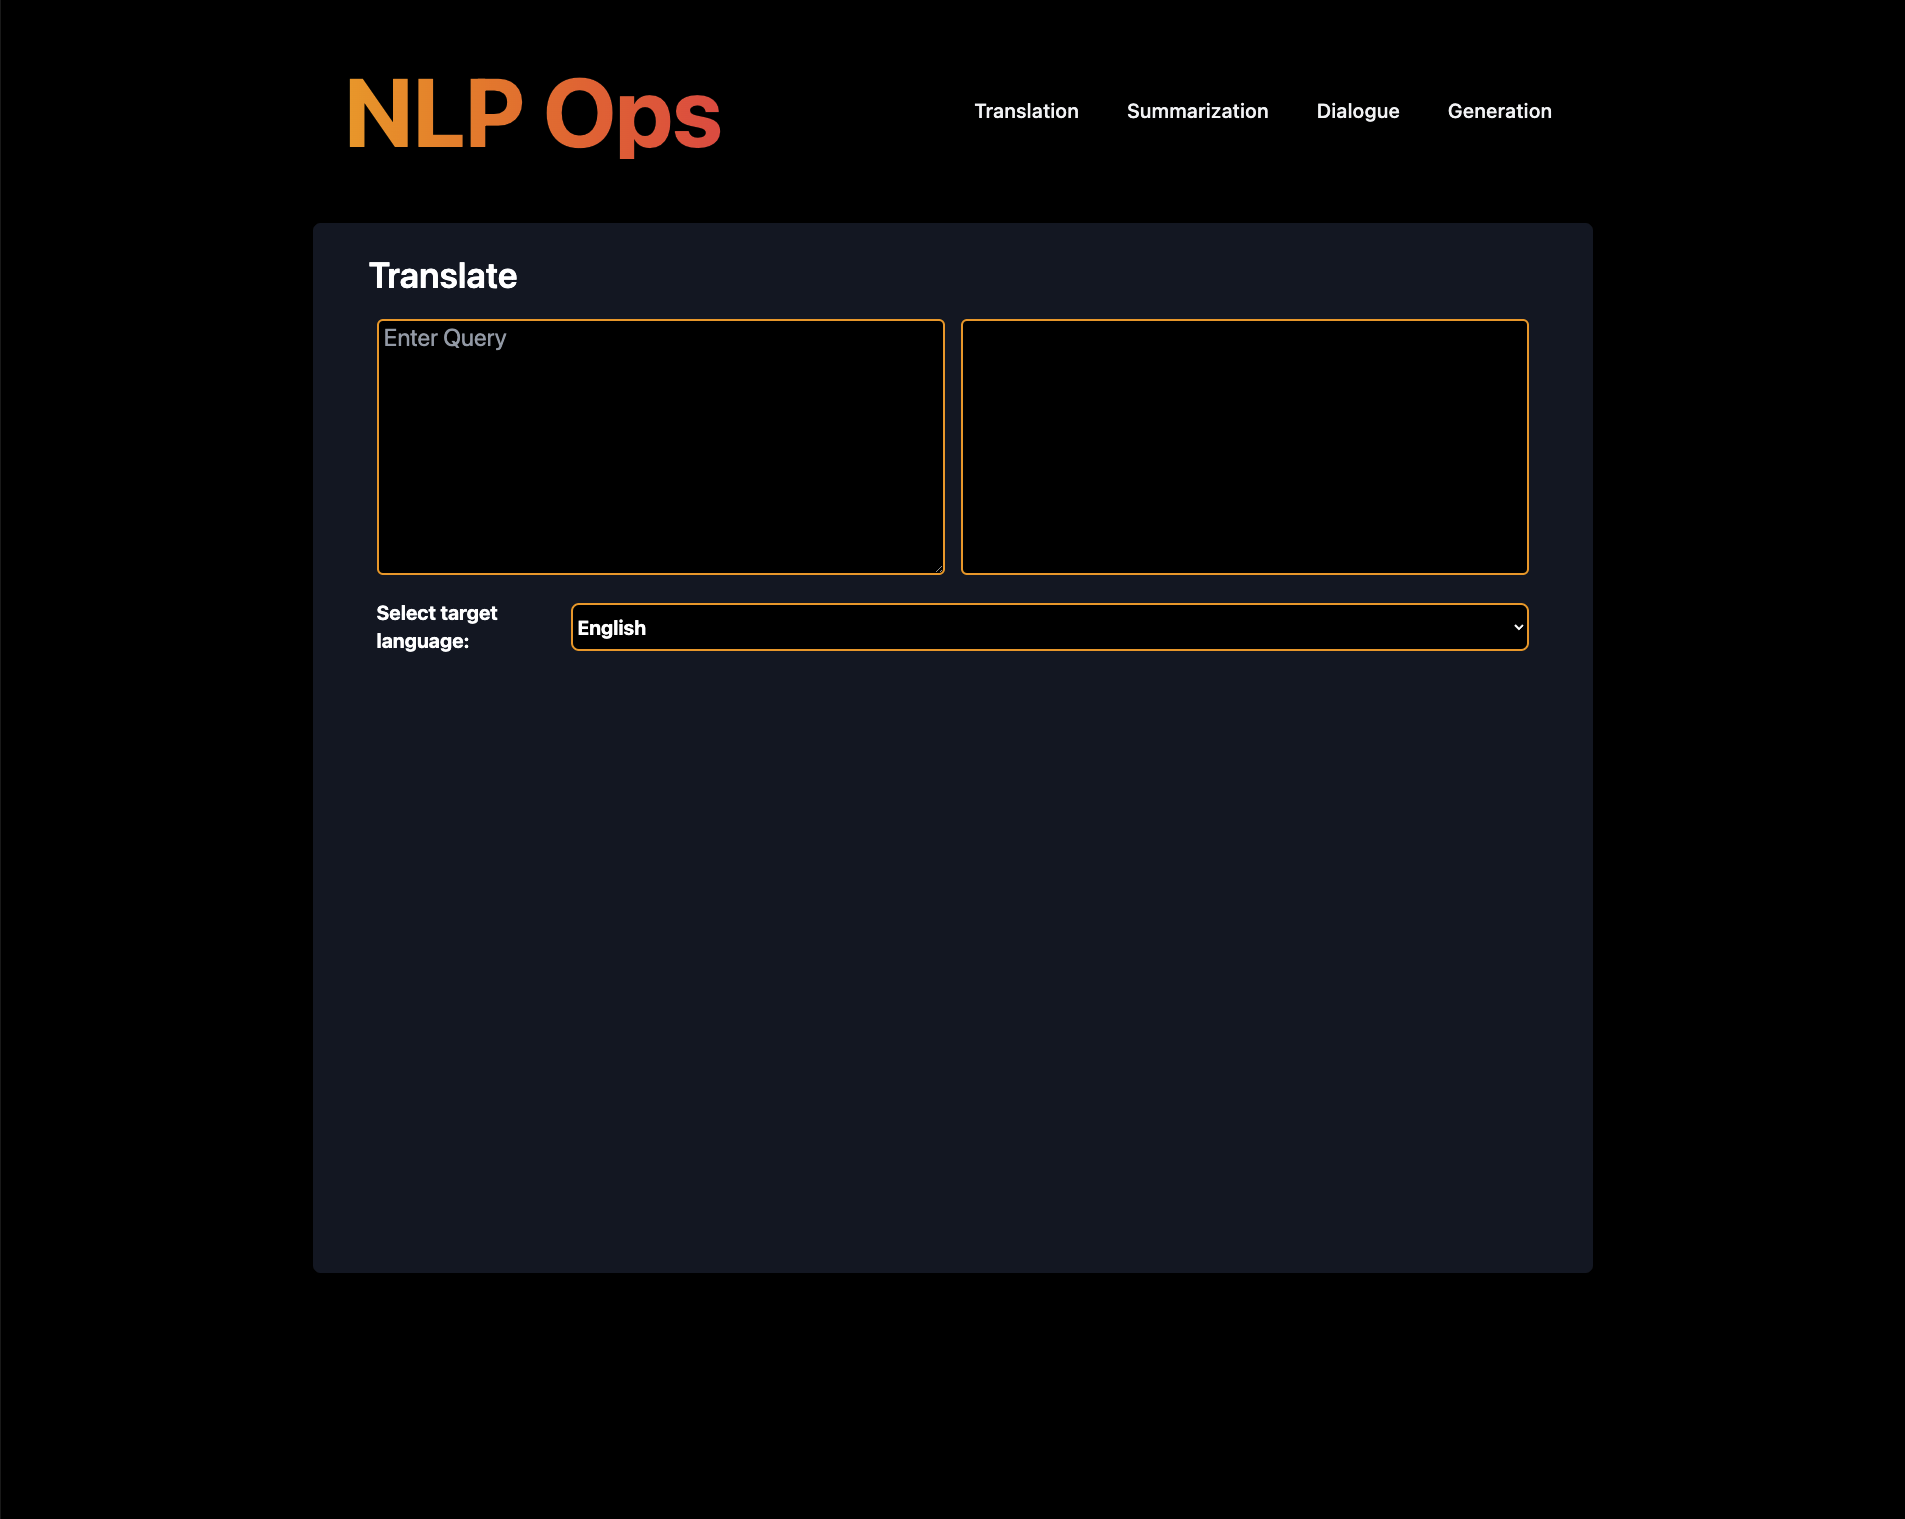
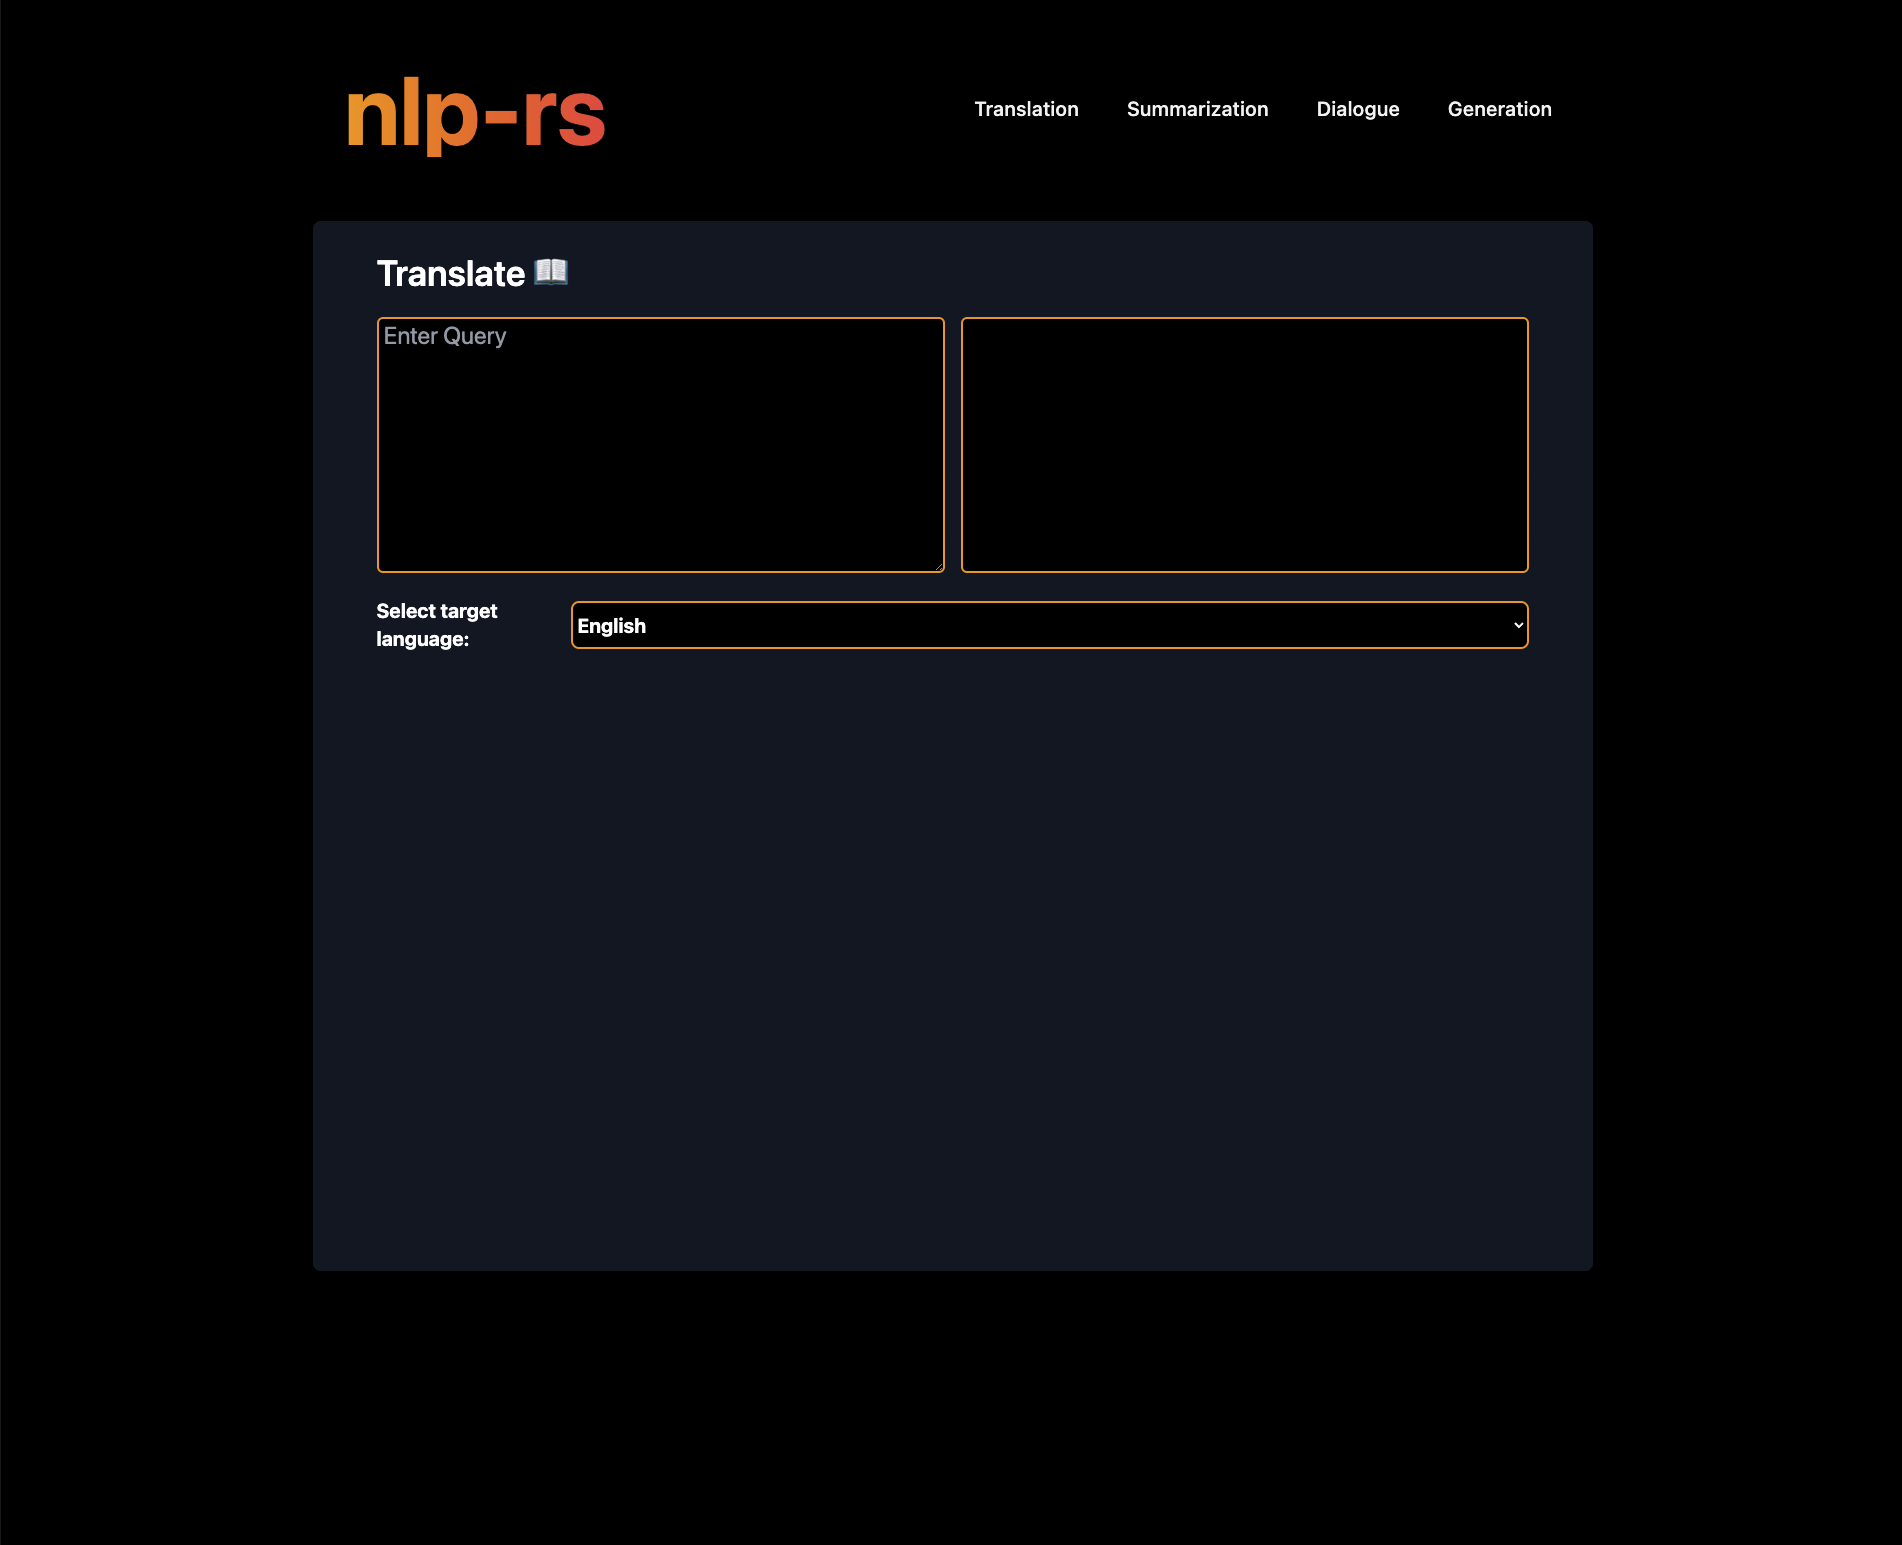
misc

diff --git a/frontend/src/main.rs b/frontend/src/main.rs
@@ -54,7 +54,7 @@ pub fn Nav(cx: Scope) -> Element {
                                 });
                             },
                             class: "inline-flex items-center bg-clip-text text-transparent bg-gradient-to-r from-yellow-500 via-orange-500 to-red-500 font-bold text-8xl",
-                            "NLP Ops"
+                            "nlp-rs"
                         }
                         ul {
                             class: "flex items-center hidden space-x-8 lg:flex",
@@ -124,7 +124,7 @@ pub fn Translation(cx: Scope) -> Element {
                     class: "p-6",
                     div {
                         h1 {
-                            class: "block mt-2 text-4xl font-semibold text-white transition-colors duration-200 transform dark:text-white",
+                            class: "block mx-2 mt-2 text-4xl font-semibold text-white transition-colors duration-200 transform dark:text-white",
                             "Translate   📖",
                         }
                     }
@@ -210,7 +210,7 @@ pub fn Summarization(cx: Scope) -> Element {
                     class: "p-6",
                     div {
                         h1 {
-                            class: "block mt-2 text-4xl font-semibold text-white transition-colors duration-200 transform dark:text-white",
+                            class: "block mx-2 mt-2 text-4xl font-semibold text-white transition-colors duration-200 transform dark:text-white",
                             "Summarize  💡",
                         }
                     }
